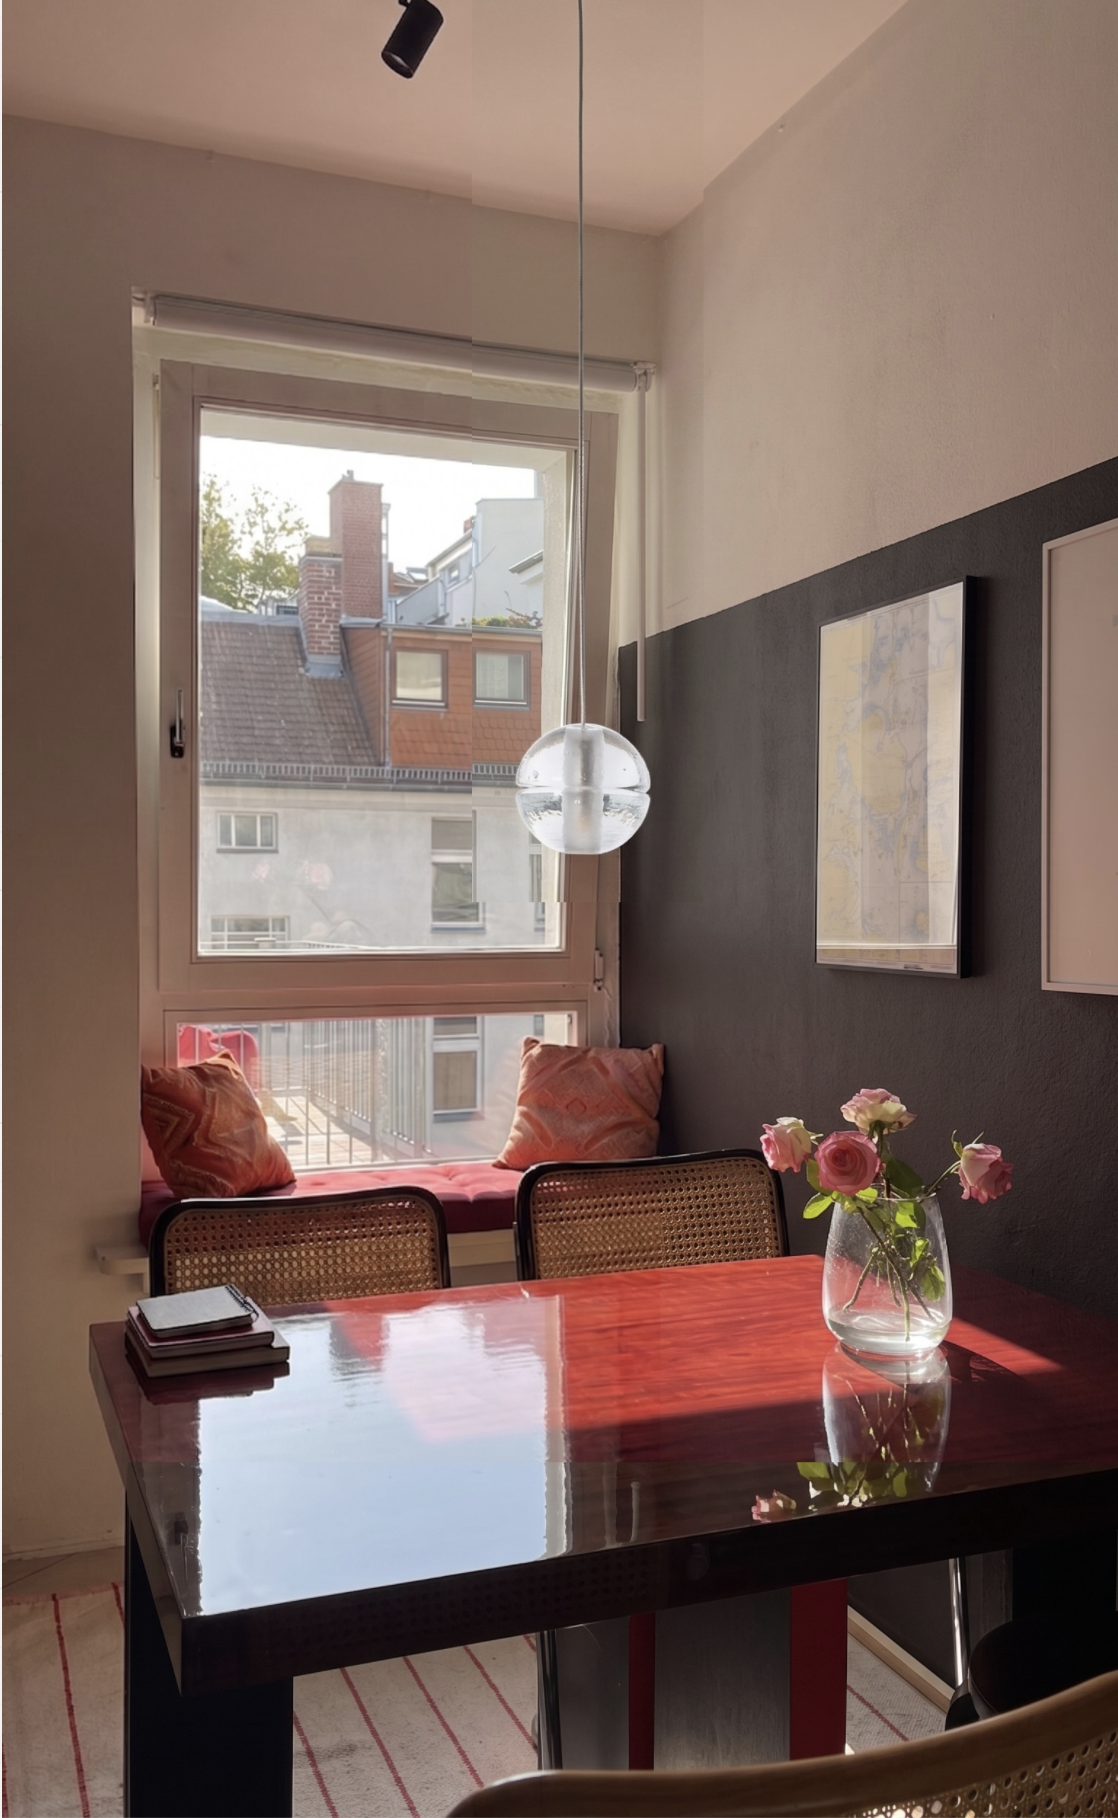
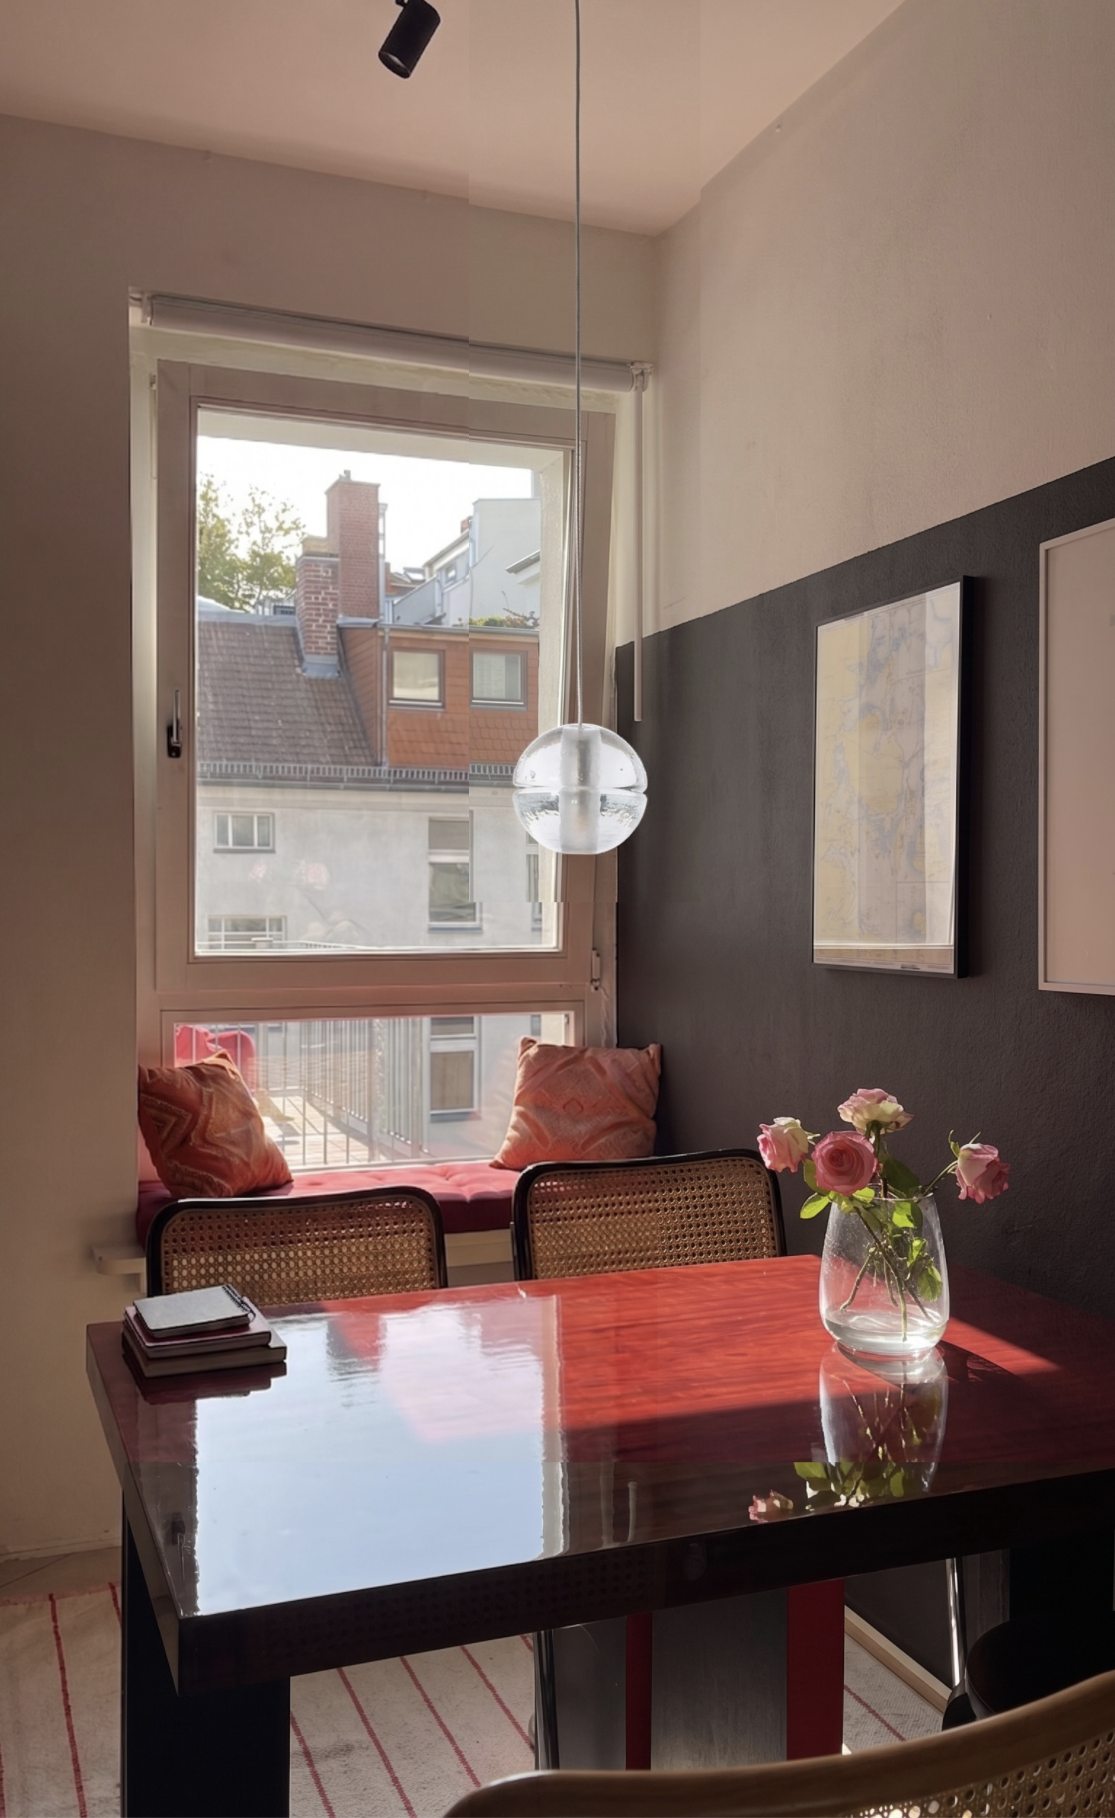
Expand biig Interior portfolio with labels, zwei Häuser, and Hochbau study.
Add fading tile headlines, tile 4 renovation project, sixth Bauprojekte strip, and re-cropped Dieffe33 gallery images.

diff --git a/biig-interior/index.html b/biig-interior/index.html
@@ -355,6 +355,42 @@
         pointer-events: none;
       }
 
+      .bi-tile--labeled.bi-tile--empty {
+        pointer-events: auto;
+        cursor: default;
+      }
+
+      .bi-tile__label {
+        position: absolute;
+        inset: 0;
+        z-index: 1;
+        display: flex;
+        align-items: center;
+        justify-content: center;
+        padding: clamp(8px, 1.2vw, 14px);
+        font-family: var(--font-sans);
+        font-size: clamp(1.31rem, 1.68vw, 1.52rem);
+        font-weight: 700;
+        line-height: 1.38;
+        letter-spacing: 0.01em;
+        text-align: center;
+        color: var(--text);
+        pointer-events: none;
+        transition: opacity 1.5s ease;
+      }
+
+      .bi-tile--project .bi-tile__label {
+        color: #ffffff;
+        text-shadow: 0 1px 14px rgba(0, 0, 0, 0.5);
+      }
+
+      .bi-tile--project:hover .bi-tile__label,
+      .bi-tile--project:focus-visible .bi-tile__label,
+      .bi-tile--labeled:hover .bi-tile__label,
+      .bi-tile--labeled:focus-visible .bi-tile__label {
+        opacity: 0;
+      }
+
       .bi-tile__media,
       .bi-hochbau-slider__slide,
       .bi-slider__slide {
@@ -547,7 +583,7 @@
       .bi-tile__hover {
         position: absolute;
         inset: 0;
-        z-index: 1;
+        z-index: 2;
         display: flex;
         flex-direction: column;
         align-items: center;
@@ -647,7 +683,7 @@
 
       .bi-hochbau-collage {
         display: grid;
-        grid-template-columns: repeat(5, minmax(0, 1fr));
+        grid-template-columns: repeat(6, minmax(0, 1fr));
         width: 100%;
         height: 100%;
         gap: 2px;
@@ -1096,6 +1132,14 @@
         pointer-events: none;
       }
 
+      .bi-lightbox__frame {
+        overflow: hidden;
+        max-width: 90vw;
+        max-height: calc(90vh - 3.5rem);
+        line-height: 0;
+        pointer-events: auto;
+      }
+
       .bi-lightbox__img {
         max-width: 90vw;
         max-height: calc(90vh - 3.5rem);
@@ -1103,7 +1147,6 @@
         height: auto;
         object-fit: contain;
         display: block;
-        pointer-events: auto;
       }
 
       .bi-lightbox__caption {
@@ -1258,6 +1301,7 @@
               <span class="bi-tile__media">
                 <img src="../assets/interior/Dieffe33-02.png" alt="" width="2162" height="1592" decoding="async" />
               </span>
+              <span class="bi-tile__label">Dein Mini-Apartement</span>
               <span class="bi-tile__hover">
                 <span class="bi-tile__keyword" data-bi-i18n="keyword"></span>
                 <span class="bi-tile__concrete" data-bi-i18n="concrete"></span>
@@ -1279,16 +1323,31 @@
                 </a>
               </div>
             </div>
-            <div class="bi-tile bi-tile--empty" aria-hidden="true"></div>
-            <div class="bi-tile bi-tile--empty" aria-hidden="true"></div>
+            <div class="bi-tile bi-tile--empty bi-tile--labeled">
+              <span class="bi-tile__label">Deine Altbauwohnung</span>
+            </div>
+            <button type="button" class="bi-tile bi-tile--project" data-bi-project="zweihaeuser">
+              <span class="bi-tile__media">
+                <img src="../assets/interior/traudi-küche.png" alt="" width="2193" height="1606" decoding="async" />
+              </span>
+              <span class="bi-tile__label">zwei Häuser</span>
+              <span class="bi-tile__hover">
+                <span class="bi-tile__keyword" data-bi-i18n="keyword"></span>
+                <span class="bi-tile__concrete" data-bi-i18n="concrete"></span>
+              </span>
+            </button>
               </div>
             </div>
 
             <!-- Zeile 2 -->
             <div class="bi-image-row">
               <div class="bi-image-row__scroll">
-            <div class="bi-tile bi-tile--empty" aria-hidden="true"></div>
-            <div class="bi-tile bi-tile--empty" aria-hidden="true"></div>
+            <div class="bi-tile bi-tile--empty bi-tile--labeled">
+              <span class="bi-tile__label">Dein Homeoffice</span>
+            </div>
+            <div class="bi-tile bi-tile--empty bi-tile--labeled">
+              <span class="bi-tile__label">Dein Loft</span>
+            </div>
             <div class="bi-tile bi-tile--offer bi-tile--offer-compact">
               <h3 class="bi-tile__headline">
                 <span class="de-t">Hilfe beim Sortieren von Deinen Ideen und Hab &amp; Gut.</span>
@@ -1309,14 +1368,18 @@
                 </button>
               </div>
             </div>
-            <div class="bi-tile bi-tile--empty" aria-hidden="true"></div>
+            <div class="bi-tile bi-tile--empty bi-tile--labeled">
+              <span class="bi-tile__label">Deine Ordnung</span>
+            </div>
               </div>
             </div>
 
             <!-- Zeile 3 -->
             <div class="bi-image-row">
               <div class="bi-image-row__scroll">
-            <div class="bi-tile bi-tile--empty" aria-hidden="true"></div>
+            <div class="bi-tile bi-tile--empty bi-tile--labeled">
+              <span class="bi-tile__label">Deine Oase</span>
+            </div>
             <div class="bi-tile bi-tile--offer bi-tile--offer-compact">
               <h3 class="bi-tile__headline">
                 <span class="de-t">All Inklusive mit Bauplanung &amp; Handwerk.</span>
@@ -1341,6 +1404,7 @@
               <span class="bi-tile__media">
                 <img src="../assets/interior/rene-möbliert-01.png" alt="" width="800" height="1067" decoding="async" />
               </span>
+              <span class="bi-tile__label">Eine Etage</span>
               <span class="bi-tile__hover">
                 <span class="bi-tile__keyword" data-bi-i18n="keyword"></span>
                 <span class="bi-tile__concrete" data-bi-i18n="concrete"></span>
@@ -1350,6 +1414,7 @@
               <span class="bi-tile__media">
                 <img src="../assets/interior/geisenheim_blumen.png" alt="" width="800" height="1067" decoding="async" />
               </span>
+              <span class="bi-tile__label">Ein Gastraum</span>
               <span class="bi-tile__hover">
                 <span class="bi-tile__keyword" data-bi-i18n="keyword"></span>
                 <span class="bi-tile__concrete" data-bi-i18n="concrete"></span>
@@ -1389,6 +1454,7 @@
               aria-label="Hochbauprojekte"
             >
               <span class="bi-hochbau-collage" id="bi-hochbau-collage-inner"></span>
+              <span class="bi-tile__label">Bauprojekte</span>
             </button>
             <div class="bi-tile bi-tile--offer bi-tile--offer-compact">
               <h3 class="bi-tile__headline">
@@ -1400,6 +1466,7 @@
               <span class="bi-tile__media">
                 <img src="../assets/interior/tisch-heller.png" alt="" width="1735" height="2023" decoding="async" />
               </span>
+              <span class="bi-tile__label">Esstisch</span>
               <span class="bi-tile__hover">
                 <span class="bi-tile__keyword" data-bi-i18n="keyword"></span>
                 <span class="bi-tile__concrete" data-bi-i18n="concrete"></span>
@@ -1536,7 +1603,9 @@
       <button type="button" class="bi-lightbox__nav bi-lightbox__nav--prev" id="bi-lightbox-prev" hidden aria-label="Vorheriges Bild">‹</button>
       <button type="button" class="bi-lightbox__nav bi-lightbox__nav--next" id="bi-lightbox-next" hidden aria-label="Nächstes Bild">›</button>
       <div class="bi-lightbox__stage">
-        <img class="bi-lightbox__img" id="bi-lightbox-img" alt="" decoding="async" />
+        <div class="bi-lightbox__frame">
+          <img class="bi-lightbox__img" id="bi-lightbox-img" alt="" decoding="async" />
+        </div>
         <p class="bi-lightbox__caption" id="bi-lightbox-caption" hidden></p>
       </div>
     </div>
@@ -1560,6 +1629,22 @@
     <script defer>
       (function initBiInterior() {
         var PROJECTS = {
+          zweihaeuser: {
+            titleDe: "zwei Häuser",
+            titleEn: "Two houses",
+            bodyDe:
+              "Umbauten in Hamburg und Augsburg — zwei Häuser, unterschiedliche Orte, gemeinsame Idee: Bestand lesen und neu nutzen.",
+            bodyEn:
+              "Renovations in Hamburg and Augsburg — two houses, different locations, one idea: read the existing fabric and use it anew.",
+            keywordDe: "Umbauten",
+            keywordEn: "Renovations",
+            concreteDe: "Hamburg und Augsburg, 2014",
+            concreteEn: "Hamburg and Augsburg, 2014",
+            images: [
+              "../assets/interior/traudi-küche.png",
+              "../assets/interior/Neubauhaus.png",
+            ],
+          },
           dieffe33: {
             titleDe: "Sanierung - Mini-Apartement Berlin, 2025",
             titleEn: "Renovation — mini apartment Berlin, 2025",
@@ -1575,7 +1660,7 @@
               "../assets/interior/Dieffe33-02.png",
               "../assets/interior/biigJ-Küche-01.png",
               "../assets/interior/dieffe33-keramik.jpeg",
-              "../assets/interior/dieffe33-04.png",
+              "../assets/interior/dieffe33-04.png?v=2",
             ],
           },
           moebel: {
@@ -1593,7 +1678,7 @@
               "../assets/interior/tisch-heller.png",
               "../assets/interior/table_bronce.png",
               "../assets/interior/tisch-CAD.jpeg",
-              "../assets/interior/dieffe33-04.png",
+              "../assets/interior/dieffe33-04.png?v=2",
               "../assets/interior/tisch-250.png",
             ],
           },
@@ -1698,6 +1783,20 @@
             concreteEn: "Schleswig waterfront, 2016",
             images: ["../assets/hochbau/schleswig.png", "../assets/hochbau/wedel-strasse.png"],
             cropPosition: "52% 20%",
+          },
+          neubauhausstrasse: {
+            titleDe: "Studie Doppelhaus, Hamburg 2015",
+            titleEn: "Duplex house study, Hamburg 2015",
+            bodyDe:
+              "Studie für ein Doppelhaus in Hamburg — Straßenansicht mit klarer Kubatur und zurückhaltender Fassade im Bestandskontext.",
+            bodyEn:
+              "Study for a duplex house in Hamburg — street view with clear volume and restrained facade in the existing context.",
+            keywordDe: "Studie",
+            keywordEn: "Study",
+            concreteDe: "Doppelhaus Hamburg, 2015",
+            concreteEn: "Duplex house Hamburg, 2015",
+            images: ["../assets/hochbau/Neubauhaus-Strasse.png"],
+            cropPosition: "center center",
           },
         };
 
@@ -1895,8 +1994,15 @@
           },
         ];
 
-        var HOCHBAU_IDS = ["klinker", "rothestr", "graefe", "destijl", "schleswig"];
-        var HOCHBAU_THUMB_FOCUS = ["28% center", "center center", "88% center", "72% center", "78% center"];
+        var HOCHBAU_IDS = ["klinker", "rothestr", "graefe", "destijl", "schleswig", "neubauhausstrasse"];
+        var HOCHBAU_THUMB_FOCUS = [
+          "28% center",
+          "center center",
+          "88% center",
+          "72% center",
+          "78% center",
+          "center center",
+        ];
 
         var popup = document.getElementById("bi-project-popup");
         var offerPopup = document.getElementById("bi-offer-popup");
@@ -1936,6 +2042,28 @@
         var lightboxProjectId = null;
         var lightboxGalleryItems = null;
         var lightboxIndex = 0;
+
+        function getImageAdjust(project, index) {
+          if (!project || !project.imageAdjust) return null;
+          return project.imageAdjust[index] || null;
+        }
+
+        function applyImageAdjust(img, adjust) {
+          if (!img) return;
+          img.style.transform = "";
+          img.style.transformOrigin = "";
+          img.style.objectPosition = "";
+          if (!adjust) return;
+          if (adjust.objectPosition) img.style.objectPosition = adjust.objectPosition;
+          var parts = [];
+          if (adjust.scale) parts.push("scale(" + adjust.scale + ")");
+          if (adjust.translateX) parts.push("translateX(" + adjust.translateX + ")");
+          if (adjust.translateY) parts.push("translateY(" + adjust.translateY + ")");
+          if (parts.length) {
+            img.style.transform = parts.join(" ");
+            img.style.transformOrigin = adjust.transformOrigin || "center center";
+          }
+        }
 
         function buildHochbauGalleryItems() {
           return HOCHBAU_IDS.map(function (id, i) {
@@ -1980,7 +2108,7 @@
               " — " +
               (lang === "en" ? "Image " : "Bild ") +
               (lightboxIndex + 1);
-            lightboxImg.style.objectPosition = "";
+            applyImageAdjust(lightboxImg, getImageAdjust(project, lightboxIndex));
             if (lightboxCaption) lightboxCaption.hidden = true;
           } else {
             return;
@@ -2034,7 +2162,7 @@
           document.body.style.overflow = "";
           if (lightboxImg) {
             lightboxImg.removeAttribute("src");
-            lightboxImg.style.objectPosition = "";
+            applyImageAdjust(lightboxImg, null);
           }
           if (lightboxCaption) {
             lightboxCaption.textContent = "";
@@ -2353,7 +2481,7 @@
           });
         }
 
-        function buildSlider(images, title) {
+        function buildSlider(images, title, project) {
           var lang = getLang();
           trackEl.innerHTML = "";
           dotsEl.innerHTML = "";
@@ -2371,6 +2499,7 @@
               (lang === "en" ? "Image " : "Bild ") +
               (i + 1);
             img.decoding = "async";
+            applyImageAdjust(img, getImageAdjust(project, i));
             fig.appendChild(img);
             trackEl.appendChild(fig);
 
@@ -2401,7 +2530,7 @@
           openProjectId = id;
           titleEl.textContent = pick(project, "title");
           bodyEl.textContent = pick(project, "body");
-          buildSlider(project.images, pick(project, "title"));
+          buildSlider(project.images, pick(project, "title"), project);
           popup.hidden = false;
           popup.setAttribute("aria-hidden", "false");
           document.body.style.overflow = "hidden";
@@ -2430,7 +2559,7 @@
             var project = PROJECTS[openProjectId];
             titleEl.textContent = pick(project, "title");
             bodyEl.textContent = pick(project, "body");
-            buildSlider(project.images, pick(project, "title"));
+            buildSlider(project.images, pick(project, "title"), project);
           }
           if (lightboxEl && !lightboxEl.hidden) {
             renderLightbox();
